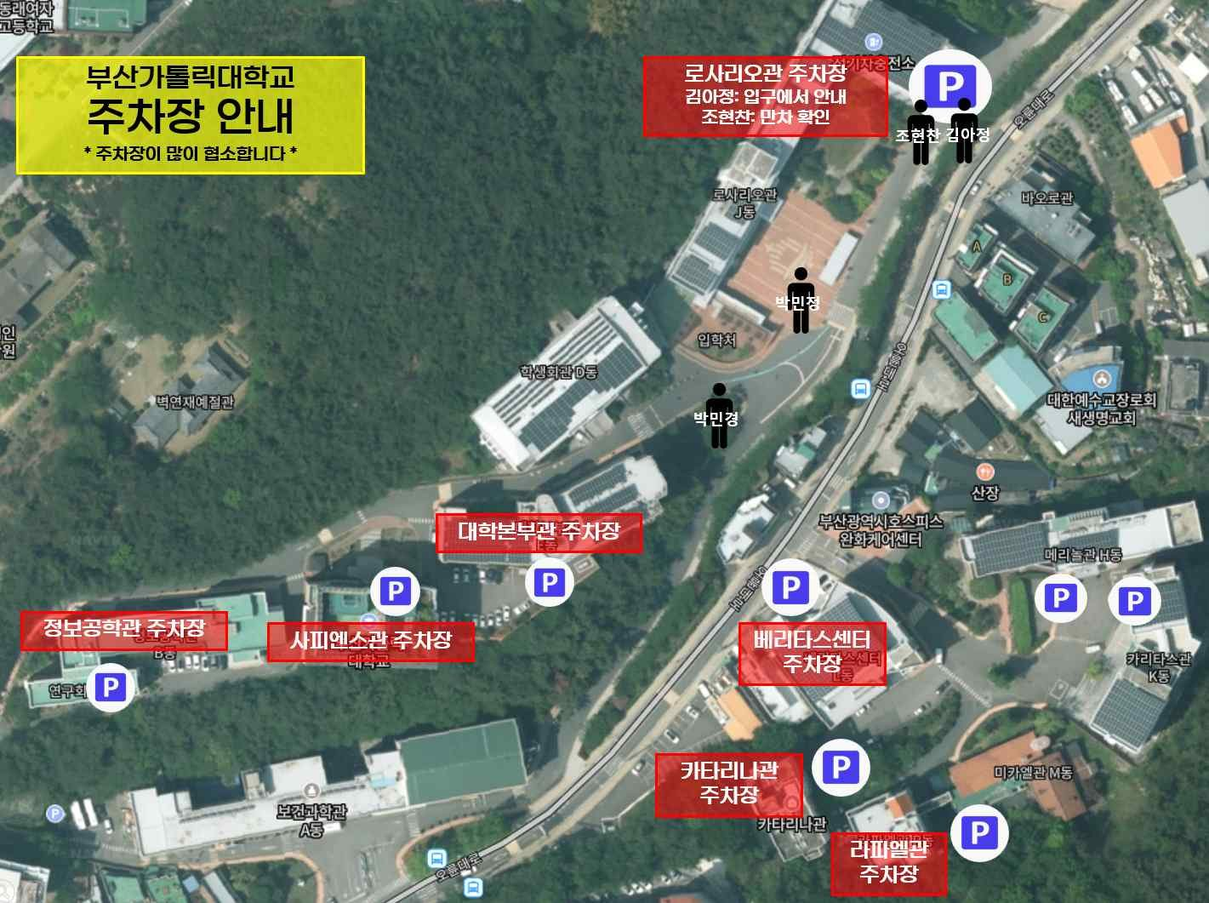
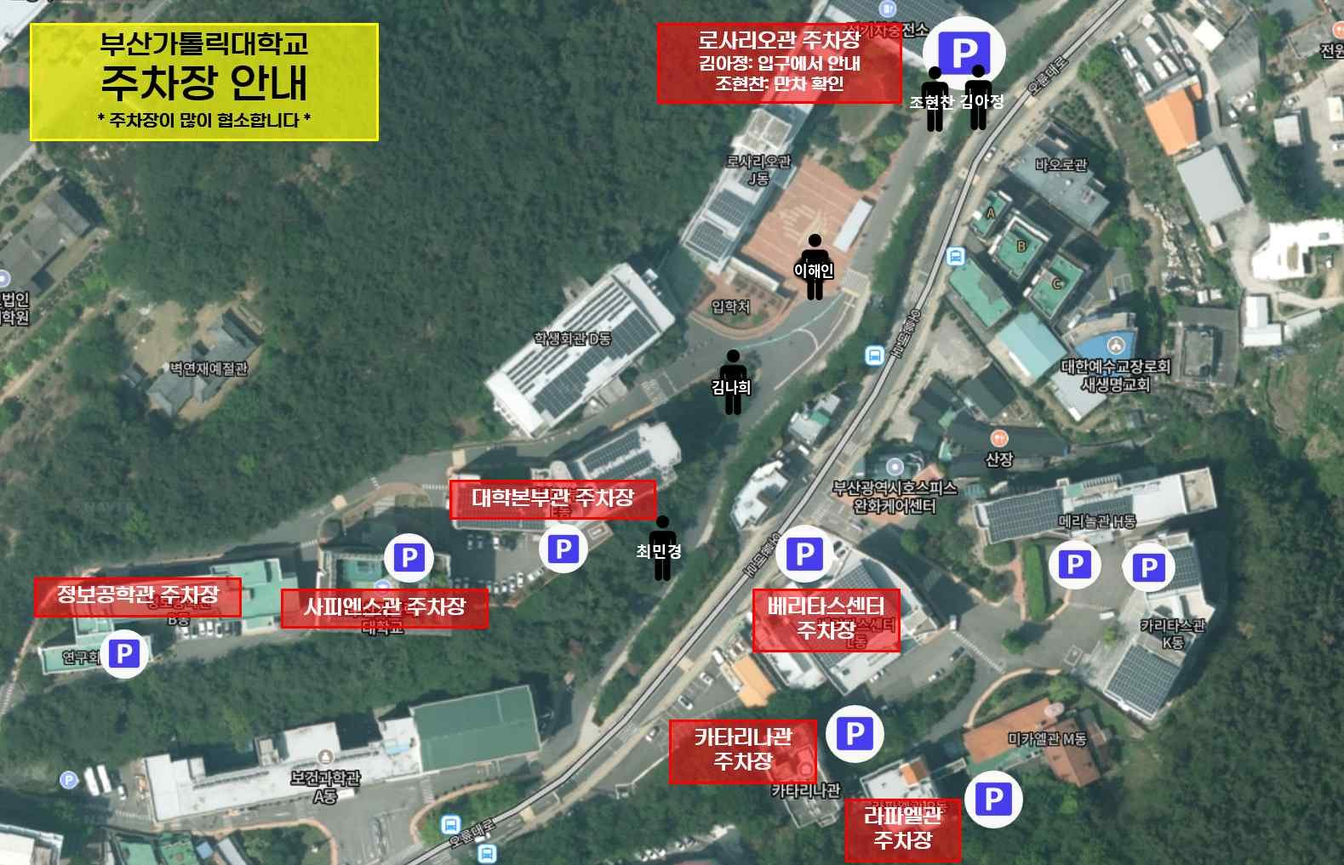
Add files via upload

diff --git a/data.js b/data.js
@@ -1,6 +1,7 @@
 /* =====================================================================
  * 2026 부산 사회복지사대회 「다커서 운동회」 개인별 업무 데이터
- * 출처: 「261029 사대회 메뉴얼」 (2026. 10. 29. 기준)
+ * 출처: 「최종 사대회 메뉴얼 261030」 및 「261030 자원봉사선생님 자료」 (2026. 10. 30. 기준)
+ *  ※ 이해인·김나희는 담당자 요청에 따라 매뉴얼과 역할·위치를 서로 교체하여 반영(지도 이름표 포함)
  *
  * ▣ 수정 방법
  *  - 사람 추가·변경 : PEOPLE 배열 수정
@@ -18,7 +19,7 @@ const EVENT = {
   date: "2026-10-31",
   dateLabel: "2026. 10. 31.(토) 08:00~14:30",
   place: "부산가톨릭대학교 신학대학 운동장 (금정구 기찰로102번길 56-7)",
-  baseDate: "2026. 10. 29. 매뉴얼 기준",
+  baseDate: "2026. 10. 30. 최종 매뉴얼 기준",
   // 화면 하단 고정 비상연락처 (전화 버튼) — 변경 시 이 항목만 수정
   emergency: { label: "비상연락처", name: "한승목", role: "사무처 대리", tel: "010-4540-6906" },
   days: {
@@ -114,13 +115,15 @@ const PEOPLE = [
   { name: "장혜선", group: "자원봉사자", pos: "부경대학교", arrive: "07:30", summary: "(7:40~9:40) 주차 → (9:50~) 인생네컷" },
   { name: "정진훈", group: "자원봉사자", pos: "부경대학교", arrive: "07:30", summary: "(7:40~9:50) 칼국수집 앞 안내 → (9:50~) 에어바운스" },
   { name: "천세담", group: "자원봉사자", pos: "부경대학교", arrive: "07:30", summary: "(7:40~9:40) 주차 → (9:50~) 청년위원부스" },
-  { name: "하지원", group: "자원봉사자", pos: "부경대학교", arrive: "07:30", summary: "(7:40~9:40) 주차 → (9:50~) 부스 줄관리" },
-  { name: "박민경", group: "자원봉사자", pos: "VMS", arrive: "07:30", summary: "(7:40~9:40) 부가대 본관 주차 → (9:50~) 프리존" },
-  { name: "박민정", group: "자원봉사자", pos: "VMS", arrive: "07:30", summary: "(7:40~9:40) 부가대 본관 주차 → (9:50~) 프리존" },
+  { name: "하지원", group: "자원봉사자", pos: "부경대학교", arrive: "07:30", summary: "(7:40~10:30) 나누는라면 → (11:00~) 부캉이" },
+  { name: "박민경", group: "자원봉사자", pos: "VMS", arrive: "07:30", summary: "(7:40~9:40) 부가대(신학교정) 주차 → (9:50~) 프리존" },
+  { name: "박민정", group: "자원봉사자", pos: "VMS", arrive: "07:30", summary: "(7:40~9:40) 부가대(신학교정) 주차 → (9:50~) 프리존" },
   { name: "김아정", group: "자원봉사자", pos: "VMS", arrive: "07:30", summary: "(7:40~9:40) 부가대 본관 주차 → (9:50~) 청년위원" },
   { name: "조현찬", group: "자원봉사자", pos: "VMS", arrive: "07:30", summary: "(7:40~9:40) 부가대 본관 주차 → (10:30~) 에어바운스" },
-  { name: "박종석", group: "자원봉사자", pos: "VMS", arrive: "07:30", summary: "(7:40~10:30) 나누는라면 → (10:30~) 에어바운스" },
-  { name: "진초원", group: "자원봉사자", pos: "VMS", arrive: "07:30", summary: "(7:40~9:40) 부가대 본관 주차 → (9:50~) 프리존" }
+  { name: "진초원", group: "자원봉사자", pos: "VMS", arrive: "07:30", summary: "(7:40~9:40) 부가대(신학교정) 주차 → (9:50~) 프리존" },
+  { name: "이해인", group: "자원봉사자", pos: "부산가톨릭대학교", arrive: "07:30", summary: "(7:40~9:40) 부가대 본관 주차 → (9:50~) 운영본부 보조" },
+  { name: "김나희", group: "자원봉사자", pos: "부산가톨릭대학교", arrive: "07:30", summary: "(7:40~9:40) 부가대 본관 주차 → (9:50~) 부스 줄관리" },
+  { name: "최민경", group: "자원봉사자", pos: "부산가톨릭대학교", arrive: "07:30", summary: "(7:40~9:40) 부가대 본관 주차 → (9:50~) 에어바운스" }
 ];
 
 /* ---------------------------------------------------------------------
@@ -150,7 +153,7 @@ const TASKS = [
   /* ================= 행사 전날 (10.30. 15:00~18:00) ================= */
   { id: "P1", day: "D0", s: "15:00", e: "18:00", phase: "prep", title: "캐노피 설치 확인", place: "운동장 일대",
     desc: ["캐노피 위치 확인", "장내 A보드 위치 설치",
-      "캐노피 총 개수: 6×3 32개, 3×3 2개",
+      "캐노피 총 개수: 6×3 32개, 3×3 3개",
       "(풋살장 방면) 세 번째 기둥부터 시작 — 6×3 8개, 3×3 1개",
       "(진입로 방면) 끝부터 바로 시작 — 6×3 11개",
       "(학교 방면) 빨간색 선부터 설치 시작 — (오)6×3 4개 (중)6×3 5개 (왼)6×3 3개",
@@ -246,14 +249,14 @@ const TASKS = [
 
   // 주차·안내 (07:40~09:50)
   { id: "K1", day: "D1", s: "07:40", e: "09:40", phase: "prep", title: "신학교정 주차 안내", place: "신학교정 주차장(스탭주차장)", map: "sinhak", pickup: { from: "한승목", item: "경광봉·스태프 명찰", at: "신학교정 커피차와 행사용 차량 사이(지도의 파란 ★ 현위치)" },
-    desc: ["주차장 배치도(별첨6)에 따른 포인트별 배치", "차량 유도 및 만차 시 안내"], prep: ["경광봉·스태프 명찰(한승목 배부)", "주차장 배치도"],
-    who: ["김유림", "김정민", "김지유", "박가영", "박소연", "이윤희", "이채은", "임란교", "장혜선", "천세담", "하지원"] },
+    desc: ["주차장 배치도(별첨7)에 따른 포인트별 배치", "차량 유도 및 만차 시 안내"], prep: ["경광봉·스태프 명찰(한승목 배부)", "주차장 배치도"],
+    who: ["김유림", "김정민", "김지유", "박가영", "박소연", "이윤희", "이채은", "임란교", "장혜선", "천세담", "박민경", "박민정", "진초원"] },
   { id: "K2", day: "D1", s: "07:40", e: "09:40", phase: "prep", title: "부가대 본관 주차 관리", place: "부가대 본관(로사리오관)", map: "bonkwan", pickup: { from: "한승목", item: "경광봉·스태프 명찰", at: "신학교정 커피차와 행사용 차량 사이(지도의 파란 ★ 현위치)" },
     desc: ["부가대 로사리오관 만차 관리", "참여자 주차장(부가대 본관) 안내"], prep: ["경광봉·스태프 명찰(한승목 배부)", "주차장 배치도"],
-    who: ["조현찬", "김아정", "박민경", "박민정", "진초원"] },
-  { id: "K3", day: "D1", s: "07:40", e: "09:30", phase: "prep", title: "장전역 4번출구 안내", place: "장전역 4번출구",
+    who: ["조현찬", "김아정", "이해인", "김나희", "최민경"] },
+  { id: "K3", day: "D1", s: "07:40", e: "09:30", phase: "prep", title: "장전역 4번출구 안내", place: "장전역 4번출구", map: "outdoor",
     desc: ["장전역 4번출구에서 참여자 안내(마지막 차까지)", "09:50부터 심판진(A조) 합류"], prep: ["주차장 배치도"], who: ["서민호"] },
-  { id: "K4", day: "D1", s: "07:40", e: "09:50", phase: "prep", title: "민속손칼국수 앞 안내", place: "민속손칼국수 앞",
+  { id: "K4", day: "D1", s: "07:40", e: "09:50", phase: "prep", title: "민속손칼국수 앞 안내", place: "민속손칼국수 앞 (금정구 오륜대로 32)", map: "outdoor",
     desc: ["민속손칼국수 앞에서 참여자 길 안내"], prep: ["주차장 배치도"], who: ["정진훈"] },
   { id: "K5", day: "D1", s: "08:00", e: "09:50", phase: "prep", title: "내빈 주차장 관리", place: "내빈 주차장", map: "sinhak", pickup: { from: "한승목", item: "경광봉·스태프 명찰", at: "신학교정 커피차와 행사용 차량 사이(지도의 파란 ★ 현위치)" },
     desc: ["내빈 차량 관리 및 주차 안내"], prep: ["경광봉·스태프 명찰(한승목 배부)", "내빈명단", "주차장 배치도"], who: ["김가영", "권경목"], lead: ["김가영"] },
@@ -267,8 +270,8 @@ const TASKS = [
     who: ["김은주", "정미정", "노수연", "유선미", "이현주"] },
   { id: "D19", day: "D1", s: "08:00", e: "10:30", phase: "prep", title: "나누는 라면 및 참여자 접수", place: "행사장 입구(나누는 라면)",
     desc: ["라면 많이 놔둘 수 있도록 정렬", "(09:50) 기념촬영용 정리", "※ 09:00 안성민 체험부스로 이동, 관리"],
-    prep: ["테이블 4개", "라면수령 상자", "폼보드(기증현판)"], who: ["김병호", "조선미", "안성민", "박종석"], lead: ["김병호"],
-    roles: { "안성민": "08:00~09:00만 참여 후 체험부스로 이동", "박종석": "07:40부터 참여" } },
+    prep: ["테이블 4개", "라면수령 상자", "폼보드(기증현판)"], who: ["김병호", "조선미", "안성민", "하지원"], lead: ["김병호"],
+    roles: { "안성민": "08:00~09:00만 참여 후 체험부스로 이동", "하지원": "07:40부터 참여 — 나누는 라면 관리 / 싣기" } },
   { id: "D20", day: "D1", s: "07:30", e: "09:50", phase: "prep", title: "입장권 팔찌 배부", place: "지회별 좌석(스탠드석 A보드 옆 / 캐노피 현수막 밑)",
     desc: ["팔찌 배부 인력 지회별 배치", "스탠드석은 A보드 옆, 캐노피는 현수막 밑에서 배부", "입장권 개수 및 배부 위치 준수"],
     prep: ["미리 팔찌 분배", "입장권 팔찌, 입장권 상자 16개"],
@@ -348,7 +351,7 @@ const TASKS = [
     roles: { "정민경": "점심 주문(11:30 도착) 포함" } },
   { id: "F02", day: "D1", s: "10:00", e: "10:30", phase: "game", title: "나누는 라면 사진촬영 및 싣기", place: "나누는 라면",
     desc: ["(식 종료 후) 김상덕: 나누는 라면 내빈 이동 안내", "김병호, 조선미: 나누는 라면 촬영 준비", "촬영 후 푸드뱅크 차량에 싣기"],
-    prep: ["나누는 라면 현판"], who: ["김상덕", "김병호", "조선미", "박종석"],
+    prep: ["나누는 라면 현판"], who: ["김상덕", "김병호", "조선미", "하지원"],
     roles: { "김상덕": "내빈 이동 안내", "김병호": "촬영 준비", "조선미": "촬영 준비" } },
   { id: "F03", day: "D1", s: "10:00", e: "12:00", phase: "game", title: "지회별 게임인원 관리", place: "스탠드·대기구역",
     desc: ["다음 경기 게임인원 확인 및 대기", "미션릴레이(지회별 11명: 여9·남2), 장막줄다리기(지회별 20명), 미션바람특공대(지회별 10명) 출전인원 확인"],
@@ -359,36 +362,45 @@ const TASKS = [
     desc: ["(09:50) 입구 민원 / 쓰레기존 / 타투스티커 배치", "조별 교대 안내, 점심 챙기기", "지속적으로 모니터링 → 필요물품, 조별교대, 민원결과 등 확인"],
     prep: [], who: ["권정아"] },
   { id: "F06", day: "D1", s: "09:50", e: "13:00", phase: "game", title: "체험부스 전체 줄관리 · 커피차 관리", place: "체험부스 구역",
-    desc: ["안성민: 전체 줄관리(+하지원, 김송희), 커피차 소진 정도 파악, 부스별 부족물품 파악", "사람이 너무 몰릴 시 적은 부스로 유도 / 자리에 가 있다가 올 것을 안내",
+    desc: ["안성민: 전체 줄관리(+김나희, 김송희), 커피차 소진 정도 파악, 부스별 부족물품 파악", "사람이 너무 몰릴 시 적은 부스로 유도 / 자리에 가 있다가 올 것을 안내",
       "커피차 지정 위치 주차 및 수령 시작(커피쿠폰)", "상품 소진 시 상품소진 안내 부착, 칫솔세트 배부"],
-    prep: ["커피쿠폰", "관련 포스터"], who: ["안성민", "하지원", "김송희"], lead: ["안성민"],
-    roles: { "안성민": "09:00~13:00 부스(대기줄, 필요물품 등), 커피차 관리", "김송희": "09:40 팔찌배부 종료 후 합류 (12:00 달고나뽑기로 이동)" } },
-  { id: "F07", day: "D1", s: "09:50", e: "13:30", phase: "game", title: "체험부스 · 10초를 잡아라", place: "10초를 잡아라 부스",
+    prep: ["커피쿠폰", "관련 포스터"], who: ["안성민", "김나희", "김송희"], lead: ["안성민"],
+    roles: { "안성민": "09:00~13:00 부스(대기줄, 필요물품 등), 커피차 관리", "김송희": "09:40 팔찌배부 종료 후 합류 (12:00 달고나뽑기로 이동)", "김나희": "09:50부터 전체 줄관리" } },
+  { id: "F07", day: "D1", s: "09:50", e: "13:00", phase: "game", title: "체험부스 · 10초를 잡아라", place: "10초를 잡아라 부스",
     desc: ["10.00초를 눌러야 성공 (기회 1번, 다시 줄 서서 재도전)", "진행-상품증정-줄관리 형태로 진행", "총괄자가 인력 로테이션 관리"],
     prep: ["성공: 다이소상품권(5,000원) 20개", "실패: 사탕"], who: ["김민지", "김유림", "김지유"], lead: ["김민지"] },
-  { id: "F08", day: "D1", s: "09:50", e: "13:30", phase: "game", title: "체험부스 · 참참! 링던지기", place: "참참링던지기 부스",
+  { id: "F08", day: "D1", s: "09:50", e: "13:00", phase: "game", title: "체험부스 · 참참! 링던지기", place: "참참링던지기 부스",
     desc: ["링을 던져 병에 넣는 개수에 따라 상품 증정", "진행-상품증정-줄관리 형태로 진행", "총괄자가 인력 로테이션 관리"],
     prep: ["모두(5개): 참깨세트 10개", "3개 이상: 커피쿠폰 200개", "2개: 비눗방울 200개", "그 외: 사탕"], who: ["박지수", "이윤희", "박소연"], lead: ["박지수"] },
-  { id: "F09", day: "D1", s: "09:50", e: "13:30", phase: "game", title: "체험부스 · 스피드스틱잡기", place: "스피드스틱 부스",
-    desc: ["무작위로 떨어지는 스틱을 빠르게 잡는 게임", "진행-상품증정-줄관리 형태 진행", "총괄자가 인력 로테이션 관리", "14:00 기계 철수"],
+  { id: "F09", day: "D1", s: "09:50", e: "13:00", phase: "game", title: "체험부스 · 스피드스틱잡기", place: "스피드스틱 부스",
+    desc: ["무작위로 떨어지는 스틱을 빠르게 잡는 게임", "진행-상품증정-줄관리 형태 진행", "총괄자가 인력 로테이션 관리", "부스 운영 종료(13:00) 후 정리 · 14:00 기계 철수"],
     prep: ["모두: 커피쿠폰 200개", "1/2 이상: 비눗방울 200개", "1/2 이하: 막대사탕"], who: ["이현주", "박가영", "이채은"], lead: ["이현주"] },
-  { id: "F10", day: "D1", s: "09:50", e: "14:00", phase: "game", title: "체험부스 · 인생네컷", place: "인생네컷 부스",
-    desc: ["‘다커서 운동회’ 기념 사진 촬영", "2명 번갈아가면서 진행", "기계 및 필름, 소품 관리", "14:00 기계 철수"],
+  { id: "F10", day: "D1", s: "09:50", e: "13:00", phase: "game", title: "체험부스 · 인생네컷", place: "인생네컷 부스",
+    desc: ["‘다커서 운동회’ 기념 사진 촬영", "2명 번갈아가면서 진행", "기계 및 필름, 소품 관리", "부스 운영 종료(13:00) 후 정리 · 14:00 기계 철수"],
     prep: ["상품 없음", "인생네컷 소품"], who: ["임란교", "장혜선"] },
-  { id: "F11", day: "D1", s: "09:50", e: "13:30", phase: "game", title: "체험부스 · 청년위원회 야르전·샤갈전", place: "청년위 부스",
+  { id: "F11", day: "D1", s: "09:50", e: "13:00", phase: "game", title: "체험부스 · 청년위원회 야르전·샤갈전", place: "청년위 부스",
     desc: ["전시 인원을 보고 번갈아가면서 진행", "스티커를 받아 작품에 스티커 붙이기(표정)", "빈 스티커 용지를 보여주면 행운거북이 체험(1인 3개 제한)"],
     prep: ["스티커", "행운거북이"], who: ["노수연", "천세담", "김아정"], lead: ["노수연"] },
-  { id: "F12", day: "D1", s: "09:50", e: "14:30", phase: "game", title: "체험부스 · 타투스티커", place: "타투스티커 부스",
+  { id: "F12", day: "D1", s: "09:50", e: "13:00", phase: "game", title: "체험부스 · 타투스티커", place: "타투스티커 부스",
     desc: ["타투스티커 부착", "찬조처 신청서 및 홍보지 안내"], prep: ["물티슈, 타투스티커"], who: ["김문희", "서호선"] },
   { id: "F13", day: "D1", s: "09:50", e: "15:00", phase: "game", title: "체험부스 · 에어바운스", place: "에어바운스(농구장 쪽)",
     desc: ["15:00까지 운영", "정재헌: 1시간마다 인원 교대", "1명 입구 / 1명 미끄럼틀 위 / 1명 미끄럼틀 밑", "입구에서 인원 제한 필요",
       "30분 간격 연령제한 — 미취학: 10:00~10:30, 11:00~11:30, 12:00~12:30, 13:30~14:00",
       "취학: 10:30~11:00, 11:30~12:00, 12:30~13:00, 14:00~14:30"],
-    prep: ["10세 미만 / 10세 이상 안내"], who: ["정재헌", "김정민", "정진훈", "조현찬", "박종석"], lead: ["정재헌"],
-    roles: { "정재헌": "총괄 · 1시간마다 인원 교대", "조현찬": "10:30부터 합류", "박종석": "10:30부터 합류" } },
-  { id: "F14", day: "D1", s: "09:50", e: "14:30", phase: "game", title: "프리존 관리", place: "프리존 부스",
+    prep: ["10세 미만 / 10세 이상 안내"], who: ["정재헌", "김정민", "정진훈", "조현찬", "최민경"], lead: ["정재헌"],
+    roles: { "정재헌": "총괄 · 1시간마다 인원 교대", "조현찬": "10:30부터 합류" } },
+  { id: "F14", day: "D1", s: "09:50", e: "13:00", phase: "game", title: "프리존 관리", place: "프리존 부스",
     desc: ["회원서비스 업체 물품 배부(1인당 1개씩 개수 제한) → 물티슈, 칫솔, 인공눈물", "협약업체 신청서 안내", "회원서비스 관련 부스 안내"],
     prep: ["협약업체 물품 여분"], who: ["박민경", "박민정", "진초원"] },
+  { id: "V1", day: "D1", s: "09:50", e: "13:00", phase: "game", title: "운영본부 보조", place: "운영본부",
+    desc: ["운영본부 업무 보조(지회별 경품개수 파악, 다음 게임 준비 등 — 정민경 안내에 따름)", "※ 식(1부 기념식)이 종료되면 앞으로 이동"],
+    prep: ["준비물품 참조", "지회별 인원파악(파일)"], who: ["이해인"],
+    roles: { "이해인": "운영본부 보조" } },
+  { id: "V2", day: "D1", s: "11:00", e: "13:00", phase: "game", title: "부캉이", place: "행사장",
+    desc: ["매뉴얼 담당: 부캉이", "세부 운영 방법은 현장 담당자 안내에 따름"], prep: [], who: ["하지원"] },
+  { id: "V3", day: "D1", s: "13:00", e: "14:30", phase: "fin", title: "부스 정리 후 행사 구경", place: "담당 부스",
+    desc: ["담당 부스 정리(상품·물품 정리)", "정리 완료 후 행사 구경"], prep: [],
+    who: ["김유림", "김지유", "이윤희", "박소연", "박가영", "이채은", "임란교", "장혜선", "천세담", "김아정", "박민경", "박민정", "진초원", "김나희", "김송희", "이해인", "하지원"] },
   { id: "F15a", day: "D1", s: "10:00", e: "11:00", phase: "game", title: "입구 민원 관리 (1조 1차)", place: "행사장 입구",
     desc: ["입구 민원 응대 및 안내", "다음 근무: 12:00~13:00"], prep: [], who: ["백수정", "마미영"] },
   { id: "F15b", day: "D1", s: "12:00", e: "13:00", phase: "lunch", title: "입구 민원 관리 (1조 2차)", place: "행사장 입구",
@@ -449,7 +461,7 @@ const TASKS = [
   /* ================= 점심게임 (12:00~13:00) ================= */
   { id: "L1", day: "D1", s: "12:00", e: "12:40", phase: "lunch", title: "점심게임 · 오리링던지기", place: "스탠드 앞",
     desc: ["2인 1조, 1명은 오리 인형을 쓰고 1명은 링을 던져 받는 게임", "오리모자 3개, 1팀씩 진행", "12:30 게임 참가 마감", "게임 물품은 운영본부에서 수령·반납"],
-    prep: ["오리탈(오리모자 3개), 링 5개", "모두 성공: 커피쿠폰 200개", "3개 이상: 학용품 세트 10개", "0개: 쏠라씨 젤리 100개"], who: ["권정아", "박지수"] },
+    prep: ["오리탈(오리모자 3개), 링 5개", "모두 성공: 학용품 세트 10개", "3개 이상: 커피쿠폰 100개", "0개: 쏠라씨 젤리 100개"], who: ["권정아", "박지수"] },
   { id: "L2", day: "D1", s: "12:00", e: "12:40", phase: "lunch", title: "점심게임 · 고깔캡슐찾기", place: "스탠드 앞 잔디",
     desc: ["고깔 끝의 작은 구멍으로 잔디 위 캡슐 찾기, 캡슐에 기재된 상품 수령", "10명이 모이면 게임 시작, 3분 제한(유동적)", "12:30 게임 참가 마감", "게임 물품은 운영본부에서 수령·반납"],
     prep: ["고깔모자, 캡슐", "타이머(핸드폰 사용)", "키캡 30개, 비눗방울 20개, 학용품 20개"], who: ["정민경", "조선미"] },
@@ -460,10 +472,14 @@ const TASKS = [
     desc: ["달고나 모양뽑기", "12:30 게임 참가 마감", "게임 물품은 운영본부에서 수령·반납"],
     prep: ["학용품세트(성공 시 15개)", "쏠라씨 젤리 100개(실패 시)"], who: ["박하늘", "김송희"] },
   { id: "L5", day: "D1", s: "12:40", e: "13:00", phase: "lunch", title: "랜덤플레이댄스", place: "운동장",
-    desc: ["16개 지회 각 2명씩 출전(자녀 출전 가능, 아동 수 2명으로 제한)", "심판 3명이 줄 세우기 / 점수체크(김가영)", "라운드마다 심판 3명 선정하여 점수",
-      "끝나고 모든 참여자 상품권 수령 안내(운영본부)", "점수: 곡당 30점"],
-    prep: ["신세계백화점 상품권 1만원권 × 32명", "마제 식사권", "개인별 점수판", "지회별 이름표"], who: ["마서영", "유선미", "이현주", "김가영"],
-    roles: { "김가영": "점수체크" } },
+    desc: ["심판: 유선미, 이현주, 마서영 (“케이팝댄스 전문가”로 소개)", "16개 지회 각 2명씩 출전, 총 32명(자녀 참여 가능, 아동 수 2명으로 제한)",
+      "참여자는 지회이름 스티커를 배에 부착", "가운데를 비워두고 8개 지회씩 나눠 대기(납작 고깔로 표시)",
+      "노래 한 곡당 1라운드, 55분 종료를 감안하여 진행(최대 10라운드)", "사회자가 ‘음악주세요!’ 신호 → 후렴구가 어느 정도 지나면 페이드아웃",
+      "아는 노래가 나오면 가운데로 나와 춤을 추면 됨 / 안무가 완벽하지 않아도 점수 부여 가능",
+      "심판 3명이 ○○구를 말하면 김가영이 점수체크(1곡당 30점) → 종료 후 운영본부에 점수판 전달",
+      "재밌거나 잘 추는 참가자는 짧은 인터뷰", "종료 후 지회별 인원 신세계상품권·식사권 수령 안내(유선미, 이현주, 마서영)"],
+    prep: ["신세계백화점 상품권 1만원권 × 32명", "마제 식사권", "개인별 점수판", "지회 이름표", "납작고깔"], who: ["마서영", "유선미", "이현주", "김가영"],
+    roles: { "김가영": "점수체크 → 종료 후 운영본부에 점수판 전달", "유선미": "심판 · 종료 후 상품권·식사권 수령 안내", "이현주": "심판 · 종료 후 상품권·식사권 수령 안내", "마서영": "심판 · 종료 후 상품권·식사권 수령 안내" } },
   { id: "L6", day: "D1", s: "12:40", e: "13:00", phase: "lunch", title: "운영본부 · 다음 게임 준비 및 상품권 수령", place: "운영본부",
     desc: ["(12:40) 다음 게임 준비 — 유혜진, 박하늘", "상품권 수령 안내 및 수령증 — 정민경", "랜플 상품: 식사교환권, 상품권"],
     prep: ["상품권 수령증", "상품권, 식사교환권"], who: ["정민경", "유혜진", "박하늘"],
@@ -487,12 +503,12 @@ const TASKS = [
   { id: "H1", day: "D1", s: "13:00", e: "14:00", phase: "fin", title: "축하공연 지원", place: "무대",
     desc: ["(13:00) 공연팀(두드림) 도착", "(13:30~14:00) 축하공연 「100%」"], prep: ["물, 음료"], who: ["김은주"] },
   { id: "H2", day: "D1", s: "13:30", e: "14:30", phase: "fin", title: "시상식 및 경품추첨 (준비 13:30 / 진행 14:00~14:30)", place: "무대",
-    desc: ["시상: 1등(100만원), 2등(50만원), 응원상(30만원)",
+    desc: ["시상: 우승(100만원), 준우승(50만원), 응원상(30만원)",
       "경품: 1등 LG스탠바이미 1명 / 2등 쿠쿠 음식물처리기 1명 / 3등 신세계상품권(30만원) 2명 / 4등 빌리브세웅 건강검진권(50만원) 2명 / 5등 세정상품권(30만원) 10명 / 6등 통영청정어묵세트 5명"],
     prep: ["폼보드, 우승기, 경품", "수령증, 펜, 문서판"],
     who: ["김상덕", "김은주", "정미정", "정민경", "유선미", "노수연", "한송희", "김가영"],
-    roles: { "김상덕": "경품추첨(경품응모함)", "김가영": "경품응모함", "김은주": "폼보드 준비", "정미정": "수령증 작성 안내(경품 실물 없는 경우)",
-      "정민경": "경품 증정, 수령증 안내(경품 실물 있는 경우)", "유선미": "인원 정렬", "노수연": "인원 정렬(13:30~)", "한송희": "인원 정렬" } },
+    roles: { "김상덕": "경품추첨(경품응모함)", "김가영": "경품응모함", "김은주": "폼보드 준비, 번호 작성(인원 많은 경품)", "정미정": "수령증 작성 안내(경품 실물 없는 경우)",
+      "정민경": "경품 증정, 수령증 안내(경품 실물 있는 경우)", "유선미": "인원 정렬", "노수연": "번호 확인 후 인원 이동(13:30~)", "한송희": "인원 정렬" } },
   { id: "H3", day: "D1", s: "14:00", e: "14:30", phase: "fin", title: "부스 기계 철수 및 폐회", place: "체험부스·무대",
     desc: ["(14:00) 기계 철수: 인생네컷, 스피드스틱", "(한승목) 봉사일지 수령", "14:30 폐회"],
     prep: ["봉사일지"], who: ["안성민", "한승목", "임란교", "장혜선", "이현주", "박가영", "이채은"],
@@ -508,7 +524,7 @@ const TASKS = [
 
   /* ================= 행사 후 (14:30~15:30) ================= */
   { id: "Z1", day: "D1", s: "14:30", e: "15:30", phase: "post", title: "물품 정리 및 철수", place: "행사장 전역",
-    desc: ["물품 정리 → 통로로 이동, 스타렉스 싣기 (협회·협의회·봉사자·스탭)", "지회별 쓰레기는 쓰레기존으로 수거(지회 실무자)"],
+    desc: ["물품 정리 → 통로로 이동, 스타렉스 싣기 (협회·협의회·봉사자·스탭)", "자원봉사자: 행사장 청소(14:30~15:30)", "지회별 쓰레기는 쓰레기존으로 수거(지회 실무자)"],
     prep: [], who: uniq([...G.사무처, ...G.협의회, ...G.자원봉사자, "유혜진", "박하늘", ...G.심판06]) },
   { id: "Z2", day: "D1", s: "14:30", e: "15:00", phase: "post", title: "청소업체 안내", place: "쓰레기존",
     desc: ["(14:30) 청소업체 도착", "트럭 진입 및 쓰레기 수거 안내"], prep: [], who: ["이지수"] },
@@ -532,12 +548,12 @@ const PROGRAM = [
   { s: "09:55", e: "09:57", title: "찬조금 전달식", desc: "발달장애청년 교육 뮤지컬 극단 ‘하이파이브 친구들’ / 문화복지공감 이경혜 대표" },
   { s: "09:57", e: "10:00", title: "우승기 전달", desc: "전회 우승지회: 영도구" },
   { s: "10:00", e: "12:00", title: "2부 지회대항전", desc: "미션릴레이(10:10) / 장막줄다리기(11:00) / 미션바람특공대(11:30)" },
-  { s: "10:00", e: "13:30", title: "참여부스 운영", desc: "에어바운스, 10초를 잡아라, 참참링던지기, 스피드스틱잡기, 인생네컷, 야르전·샤갈전, 타투스티커, 프리존" },
+  { s: "10:00", e: "13:00", title: "참여부스 운영", desc: "에어바운스, 10초를 잡아라, 참참링던지기, 스피드스틱잡기, 인생네컷, 야르전·샤갈전, 타투스티커, 프리존" },
   { s: "12:00", e: "12:40", title: "점심식사 및 미니게임", desc: "오리링던지기, 달고나뽑기, 물병세우기, 고깔캡슐찾기" },
   { s: "12:40", e: "13:00", title: "랜덤플레이댄스", desc: "" },
   { s: "13:00", e: "13:30", title: "지회결승전 - 열기를 높여라", desc: "" },
   { s: "13:30", e: "14:00", title: "축하공연 - 100%", desc: "" },
-  { s: "14:00", e: "14:30", title: "시상식 및 경품추첨", desc: "경품 1~6등 추첨" },
+  { s: "14:00", e: "14:30", title: "시상식 및 경품추첨", desc: "우승·준우승·응원상 시상, 경품 1~6등 추첨" },
   { s: "14:30", e: "15:30", title: "폐회 및 정리", desc: "물품 정리, 쓰레기 수거, 청소업체(14:30)" }
 ];
 
@@ -549,38 +565,54 @@ const NOTES = [
 
 
 /* ---------------------------------------------------------------------
- * 5. 주차·안내 위치 지도 (매뉴얼 별첨6 자원봉사자 주차장 배치)
+ * 5. 주차·안내 위치 지도 (최종 매뉴얼 별첨7 자원봉사자 주차장 배치)
  *  MAPS : 지도 이미지 / SPOTS : 개인별 위치(x·y = 이미지 가로·세로 비율 %, where = 위치 설명)
  *  업무(TASKS)에 map 항목이 있으면, 해당 인원의 위치가 지도 위에 강조 표시됨
  *  pickup: { from, item, at } 항목이 있으면 "○○에게 □□을 받고 이동" 안내가 지도 위에 표시됨
  * ------------------------------------------------------------------- */
 const MAPS = {
   // here: 경광봉·스태프 명찰 배부 장소(현위치) — 커피차와 행사용 차량 사이
-  sinhak:  { src: "map-sinhak.jpg",  title: "신학교정 (스탭·내빈 주차장)", w: 1209, h: 890,
-             here: { x: 41.1, y: 53.7, label: "현위치 · 경광봉·명찰 수령" } },
-  bonkwan: { src: "map-bonkwan.jpg", title: "부가대 본관 (참여자 주차장)", w: 1421, h: 1061 }
+  sinhak:  { src: "map-sinhak.jpg",  title: "신학교정 (스탭·내빈 주차장)", w: 1421, h: 889,
+             here: { x: 35.0, y: 56.6, label: "현위치 · 경광봉·명찰 수령" } },
+  bonkwan: { src: "map-bonkwan.jpg", title: "부가대 본관 (참여자 주차장)", w: 1579, h: 1017 }
 };
 
 const SPOTS = {
-  // 신학교정
-  "이채은": { map: "sinhak", x: 42.6, y: 9.9,  where: "양재현마르티노관(SA동) 위쪽 공터, 주차장(P) 왼편" },
-  "임란교": { map: "sinhak", x: 54.5, y: 17.0, where: "SA동 오른쪽 주차장 진입부, 주차장(P) 아래" },
-  "김지유": { map: "sinhak", x: 36.1, y: 19.7, where: "SA동 왼쪽 도로, 주차장(P) 왼편 위쪽" },
-  "천세담": { map: "sinhak", x: 35.9, y: 31.0, where: "SA동 왼쪽 도로, 김지유 위치 아래쪽" },
-  "하지원": { map: "sinhak", x: 50.9, y: 29.0, where: "SA동 오른쪽 주차장 안쪽" },
-  "박가영": { map: "sinhak", x: 57.0, y: 28.7, where: "SA동 오른쪽 주차장, 음악교육원 앞" },
-  "장혜선": { map: "sinhak", x: 58.8, y: 41.2, where: "이정식요한관(SB동) 위쪽, 음악교육원 아래" },
-  "김가영": { map: "sinhak", x: 39.6, y: 41.9, where: "SA동 앞, 내빈용 주차장(10대) 시작 지점" },
-  "권경목": { map: "sinhak", x: 32.8, y: 45.4, where: "내빈용 주차장 진입 지점(커피차 위쪽)" },
-  "한승목": { map: "sinhak", x: 25.2, y: 31.8, where: "경비실 앞 — 출입차 관리" },
-  "강유빈": { map: "sinhak", x: 25.2, y: 31.8, where: "경비실 앞 — 출입차 관리" },
-  "박소연": { map: "sinhak", x: 20.6, y: 52.4, where: "경비실 아래쪽 진입 도로" },
-  "김유림": { map: "sinhak", x: 26.3, y: 61.4, where: "진입 도로, 운동장 방향 숲길 옆" },
-  "이윤희": { map: "sinhak", x: 12.6, y: 60.5, where: "허인백야고보관(SE동) 위쪽 도로" },
-  "김정민": { map: "sinhak", x: 2.4,  y: 70.0, where: "허인백야고보관(SE동) 왼쪽 끝 도로" },
+  // 신학교정 (최종 매뉴얼 별첨7 기준)
+  "이채은": { map: "sinhak", x: 36.6, y: 12.1, where: "양재현마르티노관(SA동) 위쪽 공터, 주차장(P) 왼편" },
+  "임란교": { map: "sinhak", x: 46.8, y: 19.7, where: "SA동 오른쪽 주차장 진입부, 주차장(P) 아래" },
+  "김지유": { map: "sinhak", x: 31.0, y: 22.5, where: "SA동 왼쪽 도로, 주차장(P) 왼편 위쪽" },
+  "천세담": { map: "sinhak", x: 30.9, y: 33.7, where: "SA동 왼쪽 도로, 김지유 위치 아래쪽" },
+  "진초원": { map: "sinhak", x: 43.7, y: 31.7, where: "SA동 오른쪽 주차장 안쪽" },
+  "박가영": { map: "sinhak", x: 49.0, y: 31.7, where: "SA동 오른쪽 주차장, 음악교육원 앞" },
+  "장혜선": { map: "sinhak", x: 50.4, y: 43.9, where: "이정식요한관(SB동) 위쪽, 음악교육원 아래" },
+  "김가영": { map: "sinhak", x: 34.2, y: 44.4, where: "SA동 앞, 내빈용 주차장(10대) 시작 지점" },
+  "권경목": { map: "sinhak", x: 28.4, y: 48.1, where: "내빈용 주차장 진입 지점(커피차 위쪽)" },
+  "한승목": { map: "sinhak", x: 21.9, y: 35.4, where: "경비실 앞 — 출입차 관리" },
+  "강유빈": { map: "sinhak", x: 21.9, y: 35.4, where: "경비실 앞 — 출입차 관리" },
+  "박소연": { map: "sinhak", x: 17.9, y: 54.9, where: "경비실 아래쪽 진입 도로" },
+  "김유림": { map: "sinhak", x: 22.7, y: 64.1, where: "진입 도로, 운동장 방향 숲길 옆" },
+  "이윤희": { map: "sinhak", x: 11.2, y: 63.0, where: "허인백야고보관(SE동) 위쪽 도로" },
+  "김정민": { map: "sinhak", x: 1.8,  y: 72.8, where: "허인백야고보관(SE동) 왼쪽 끝 도로" },
+  "박민경": { map: "sinhak", x: 42.4, y: 59.3, where: "행사용 차량 구역 시작 지점(커피차 오른쪽)" },
+  "박민정": { map: "sinhak", x: 50.4, y: 67.3, where: "행사용 차량 구역 중간(지혜롭게 마시고가게 앞)" },
+  // 외부 길 안내 (outdoor: 위경도 좌표 기반 개략도 + 지도 앱 연결)
+  "서민호": { map: "outdoor", point: "station", where: "장전역 4번출구 — 참여자 길 안내(마지막 차까지)" },
+  "정진훈": { map: "outdoor", point: "noodle",  where: "민속손칼국수 앞(금정구 오륜대로 32) — 참여자 길 안내" },
   // 부가대 본관
-  "조현찬": { map: "bonkwan", x: 76.2, y: 14.8, where: "로사리오관 주차장 — 만차 확인" },
-  "김아정": { map: "bonkwan", x: 79.7, y: 14.8, where: "로사리오관 주차장 입구에서 안내" },
-  "박민정": { map: "bonkwan", x: 66.2, y: 33.3, where: "로사리오관(J동) 앞, 입학처 위쪽" },
-  "박민경": { map: "bonkwan", x: 59.5, y: 46.2, where: "입학처 아래 도로(학생회관 D동 오른쪽)" }
+  "조현찬": { map: "bonkwan", x: 69.5, y: 11.6, where: "로사리오관 주차장 — 만차 확인" },
+  "김아정": { map: "bonkwan", x: 72.8, y: 11.6, where: "로사리오관 주차장 입구에서 안내" },
+  "이해인": { map: "bonkwan", x: 60.6, y: 31.0, where: "로사리오관(J동) 앞, 입학처 위쪽" },
+  "김나희": { map: "bonkwan", x: 54.5, y: 44.4, where: "입학처 아래 도로(학생회관 D동 오른쪽)" },
+  "최민경": { map: "bonkwan", x: 49.3, y: 63.4, where: "대학본부관 주차장 오른쪽 도로" }
+};
+
+/* 외부 안내 지점 좌표 (Google 지도 장소 정보 기준) — 개략도 및 지도 앱 연결에 사용 */
+const OUTDOOR = {
+  title: "외부 길 안내 위치 (개략도)",
+  points: {
+    station: { label: "장전역 4번출구", lat: 35.238884, lng: 129.088637 },
+    noodle:  { label: "민속손칼국수", lat: 35.2422398, lng: 129.0956331 },
+    venue:   { label: "행사장(부산가톨릭대 신학대학)", lat: 35.2407537, lng: 129.0967087 }
+  }
 };

diff --git a/index.html b/index.html
@@ -136,6 +136,12 @@ h2.sec{font-size:18px;margin:22px 0 8px}
 .map img{width:100%;height:auto;display:block}
 .map .here{position:absolute;width:30px;height:30px;margin:-15px 0 0 -15px;border-radius:50%;background:#2563eb;color:#fff;font-size:17px;line-height:30px;text-align:center;box-shadow:0 0 0 3px #fff,0 2px 6px rgba(0,0,0,.4);pointer-events:none}
 .map .here-tag{position:absolute;transform:translate(-50%,24px);background:#2563eb;color:#fff;font-size:12px;font-weight:800;line-height:1.2;padding:4px 8px;border-radius:7px;white-space:nowrap;pointer-events:none;box-shadow:0 2px 6px rgba(0,0,0,.3)}
+.ext{background:#f8fafc;border:1px solid var(--line);border-radius:10px;padding:6px;line-height:0}
+.ext svg{width:100%;height:auto;display:block}
+.applinks{display:flex;gap:6px;margin-top:6px}
+.applinks a{flex:1;text-align:center;border-radius:8px;padding:9px 6px;font-size:14px;font-weight:700;text-decoration:none}
+.applinks a.kakao{background:#fee500;color:#191919}
+.applinks a.google{background:#fff;border:1px solid var(--line);color:var(--ink)}
 .here-note{margin-top:6px;font-size:13px;color:#1e3a8a;background:#eff6ff;border-radius:8px;padding:7px 10px}
 .map .ring{position:absolute;left:var(--x);top:var(--y);width:44px;height:44px;margin:-22px 0 0 -22px;border-radius:50%;border:4px solid #ef4444;box-shadow:0 0 0 3px #fff;pointer-events:none;animation:pulse 1.4s ease-out infinite}
 @keyframes pulse{0%{transform:scale(.7);opacity:1}70%{transform:scale(1.5);opacity:.25}100%{transform:scale(.7);opacity:1}}
@@ -445,7 +451,42 @@ footer{font-size:12px;color:var(--sub);text-align:center;margin-top:30px;line-he
 
   function SPOT_OF(name){ return (typeof SPOTS !== "undefined" && SPOTS[name]) || null; }
 
+  // 외부 길 안내: 좌표 기반 개략도(SVG) + 카카오맵·구글지도 연결
+  function outdoorHTML(name){
+    if(typeof OUTDOOR === "undefined") return "";
+    const P = OUTDOOR.points, sp = SPOT_OF(name);
+    const keys = Object.keys(P);
+    const lat0 = Math.min(...keys.map(k => P[k].lat)), lng0 = Math.min(...keys.map(k => P[k].lng));
+    const kx = Math.cos(lat0 * Math.PI / 180) * 111320, ky = 110540;
+    const xy = k => ({ x: (P[k].lng - lng0) * kx, y: (P[k].lat - lat0) * ky });
+    const pts = keys.map(xy), maxX = Math.max(...pts.map(p => p.x)), maxY = Math.max(...pts.map(p => p.y));
+    const W = 600, H = 330, pad = 60, sc = Math.min((W - 2*pad) / maxX, (H - 2*pad) / maxY);
+    const px = k => { const p = xy(k); return { x: pad + p.x * sc, y: H - pad - p.y * sc }; };
+    const mineKey = sp && sp.map === "outdoor" ? sp.point : null;
+    let g = "";
+    keys.forEach(k => {
+      const p = px(k), mine = k === mineKey, venue = k === "venue";
+      const fill = mine ? "#ef4444" : venue ? "#2563eb" : "#64748b";
+      const r = mine ? 14 : 11, ly = p.y > H/2 ? p.y + 36 : p.y - 24;
+      const anchor = p.x < W*0.3 ? "start" : p.x > W*0.7 ? "end" : "middle", lx = anchor === "start" ? p.x - 20 : anchor === "end" ? p.x + 20 : p.x;
+      g += `${mine ? `<circle cx="${p.x}" cy="${p.y}" r="24" fill="none" stroke="#ef4444" stroke-width="4"><animate attributeName="r" values="16;30;16" dur="1.4s" repeatCount="indefinite"/><animate attributeName="opacity" values="1;.2;1" dur="1.4s" repeatCount="indefinite"/></circle>` : ""}
+        <circle cx="${p.x}" cy="${p.y}" r="${r}" fill="${fill}" stroke="#fff" stroke-width="3"/>
+        <text x="${lx}" y="${ly}" text-anchor="${anchor}" font-size="${mine ? 24 : 20}" font-weight="800" fill="${fill}" stroke="#f8fafc" stroke-width="5" paint-order="stroke">${esc(P[k].label)}${mine ? " · " + esc(name) + " 여기!" : ""}</text>`;
+    });
+    const svg = `<svg viewBox="0 0 ${W} ${H}" xmlns="http://www.w3.org/2000/svg" role="img" aria-label="${esc(OUTDOOR.title)}">
+      <text x="${W-14}" y="28" text-anchor="end" font-size="17" fill="#64748b">▲ 북쪽</text>
+      <text x="14" y="28" font-size="15" fill="#94a3b8">위치 관계 개략도(도로 미표시)</text>${g}</svg>`;
+    const me = mineKey ? P[mineKey] : null;
+    const links = me ? `<div class="applinks">
+        <a class="kakao" href="https://map.kakao.com/link/map/${encodeURIComponent(me.label)},${me.lat},${me.lng}" target="_blank" rel="noopener">카카오맵에서 내 위치 보기</a>
+        <a class="google" href="https://www.google.com/maps/search/?api=1&query=${me.lat},${me.lng}" target="_blank" rel="noopener">구글 지도</a></div>` : "";
+    return `<div class="map-box">
+      ${me ? `<div class="map-where">📍 내 위치: ${esc(sp.where)}<small>빨간 점 위치 · 실제 도로와 이동 경로는 아래 지도 앱 버튼으로 확인</small></div>` : ""}
+      <div class="ext">${svg}</div>${links}</div>`;
+  }
+
   function mapHTML(mapKey, name){
+    if(mapKey === "outdoor") return outdoorHTML(name);
     const M = (typeof MAPS !== "undefined") && MAPS[mapKey];
     if(!M) return "";
     const sp = SPOT_OF(name);
